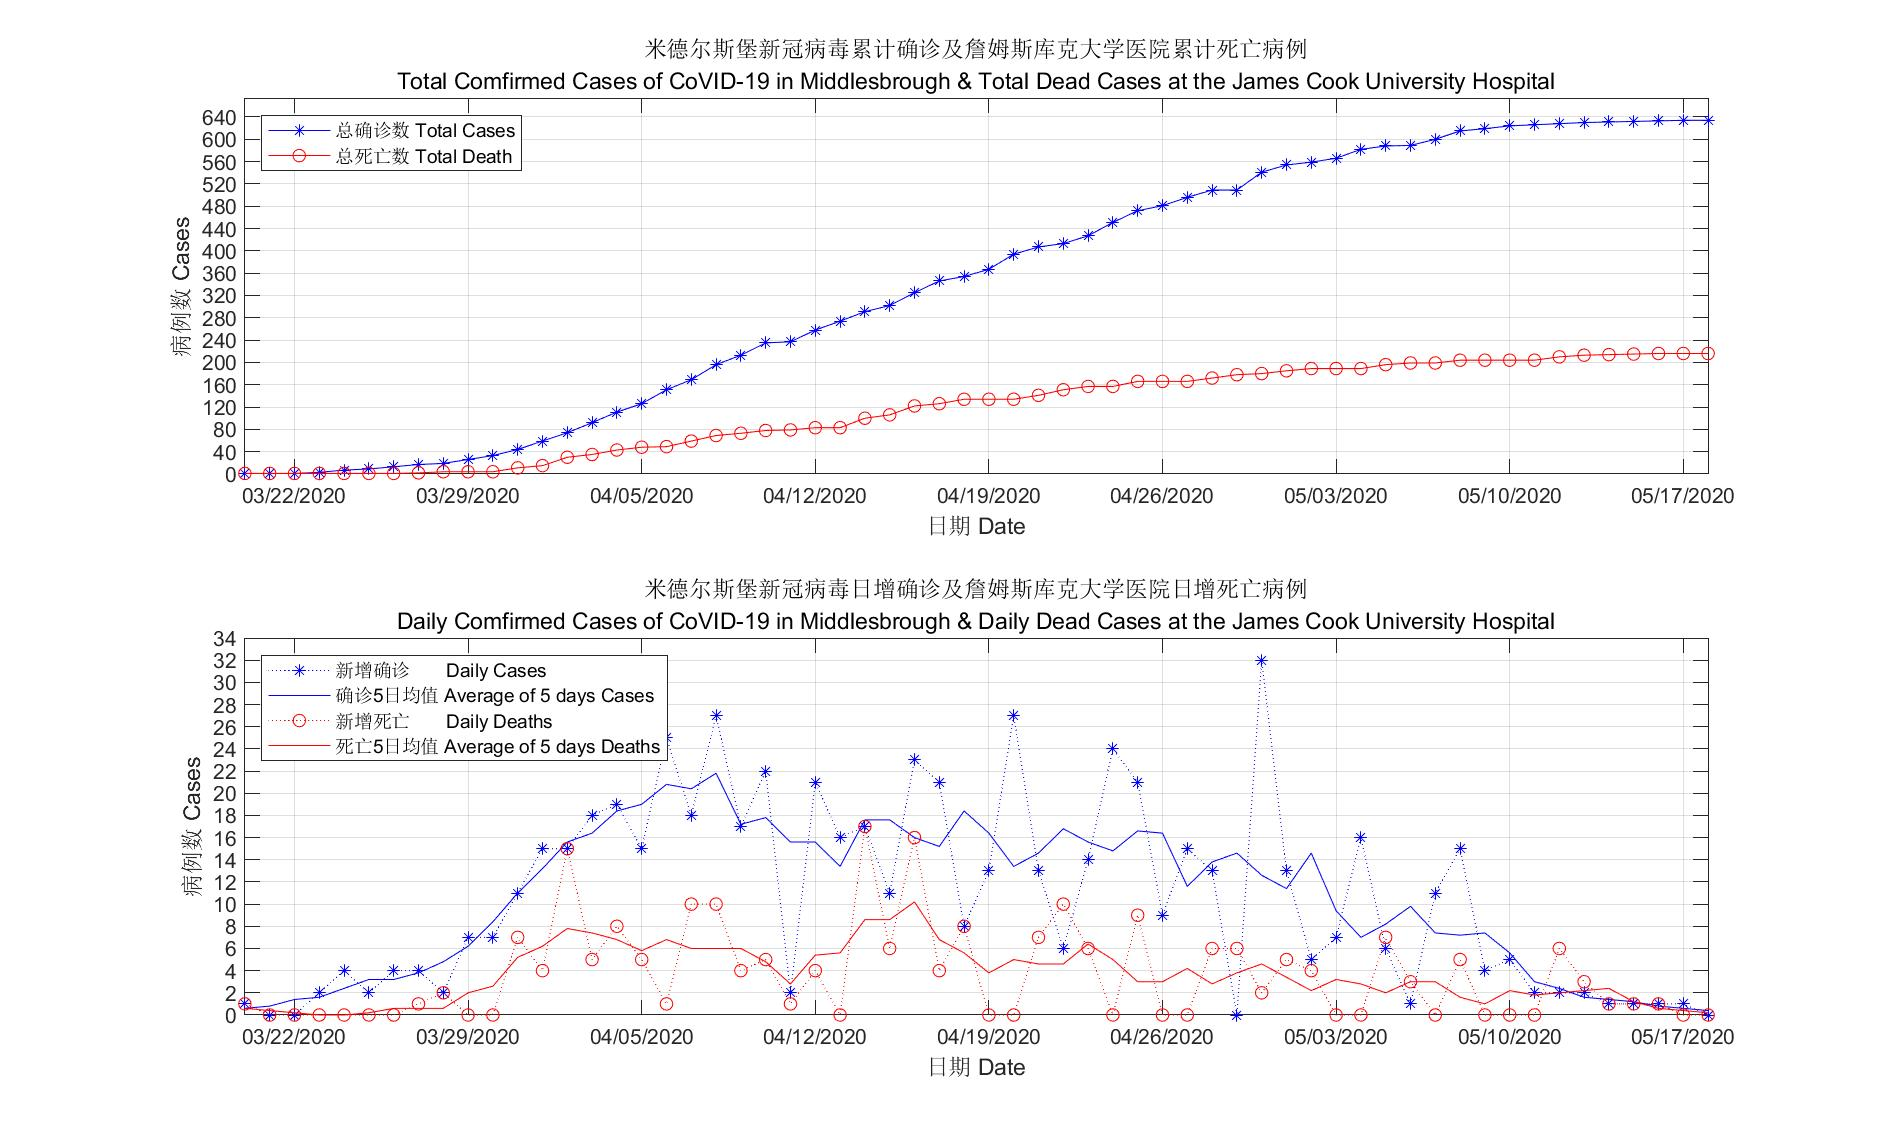
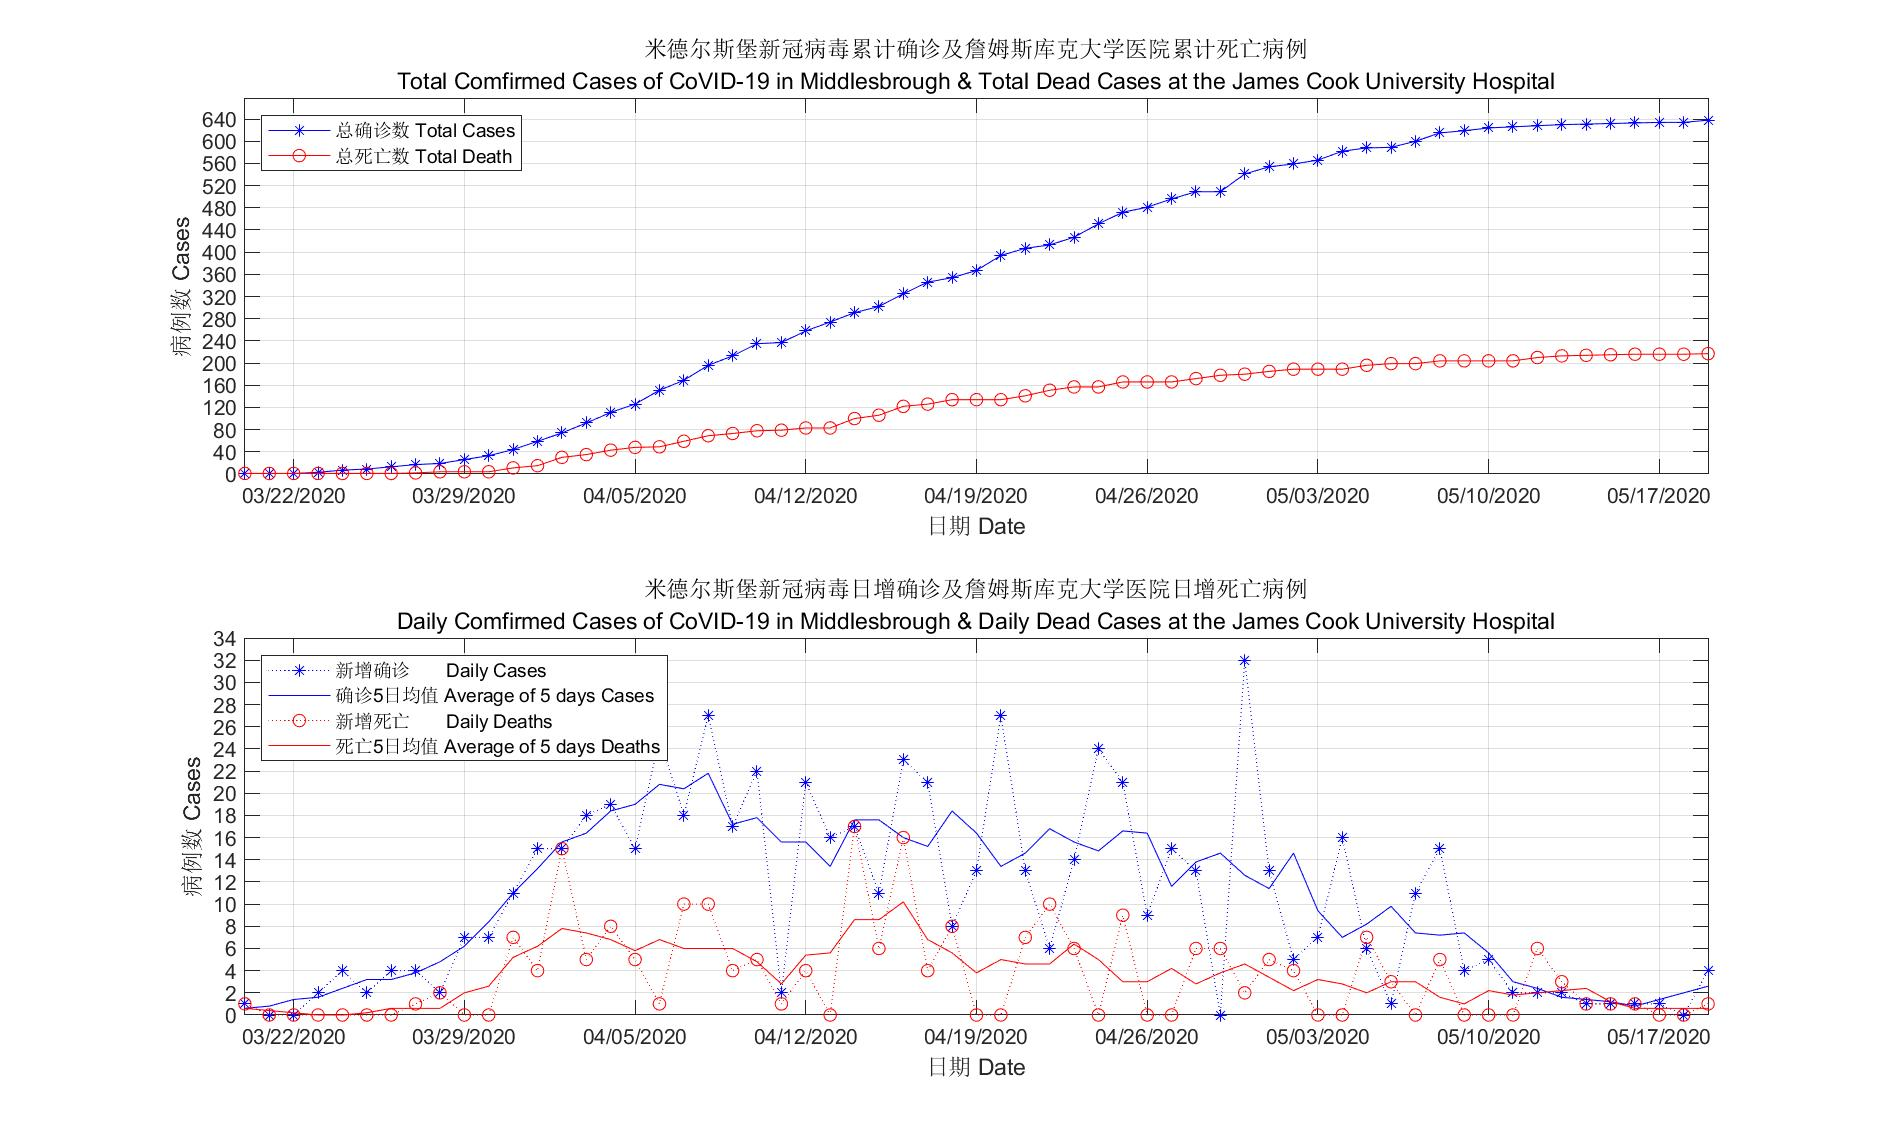
Update

diff --git a/Covid19_TS1.py b/Covid19_TS1.py
@@ -12,11 +12,12 @@ from matplotlib.ticker import MultipleLocator, FormatStrFormatter
 cases = [1, 1, 1, 3, 7, 9, 13, 17, 19, 26, 33, 44, 59, 74, 92, 111, 126, 151, 169, 196, 213,\
     235, 237, 258, 274, 291, 302, 325, 346, 354, 367, 394, 407, 413, 427, 451, 472, 481, 496,\
     509, 509, 541, 554, 559, 566, 582, 588, 589, 600, 615, 619, 624, 626, 628, 630, 631, 632,\
-    633, 634, 634]
+    633, 634, 634, 638]
 #deaths data from NHS
 dcases = [1, 1, 1, 1, 1, 1, 1, 2, 4, 4, 4, 11, 15, 30, 35, 43, 48, 49, 59, 69, 73, 78, 79, 83,\
     83, 100, 106, 122, 126, 134, 134, 134, 141, 151, 157, 157, 166, 166, 166, 172, 178, 180,\
-    185, 189, 189, 189, 196, 199, 199, 204, 204, 204, 204, 210, 213, 214, 215, 216, 216, 216]
+    185, 189, 189, 189, 196, 199, 199, 204, 204, 204, 204, 210, 213, 214, 215, 216, 216, 216,\
+    217]
 
 #Initial
 #Date config

diff --git a/covid19_TS1.m b/covid19_TS1.m
@@ -8,12 +8,12 @@
 cases = [1 1 1 3 7 9 13 17 19 26 33 44 59 74 92 111 126 151 169 196 213 ...
     235 237 258 274 291 302 325 346 354 367 394 407 413 427 451 472 481 ...
     496 509 509 541 554 559 566 582 588 589 600 615 619 624 626 628 630 ...
-    631 632 633 634 634];
+    631 632 633 634 634 638];
 %deaths data from NHS
 dcases = [1 1 1 1 1 1 1 2 4 4 4 11 15 30 35 43 48 49 59 69 73 78 79 83 ...
     83 100 106 122 126 134 134 134 141 151 157 157 166 166 166 172 178 ...
     180 185 189 189 189 196 199 199 204 204 204 204 210 213 214 215 216 ...
-    216 216];
+    216 216 217];
 
 %Initial
 %Date config
